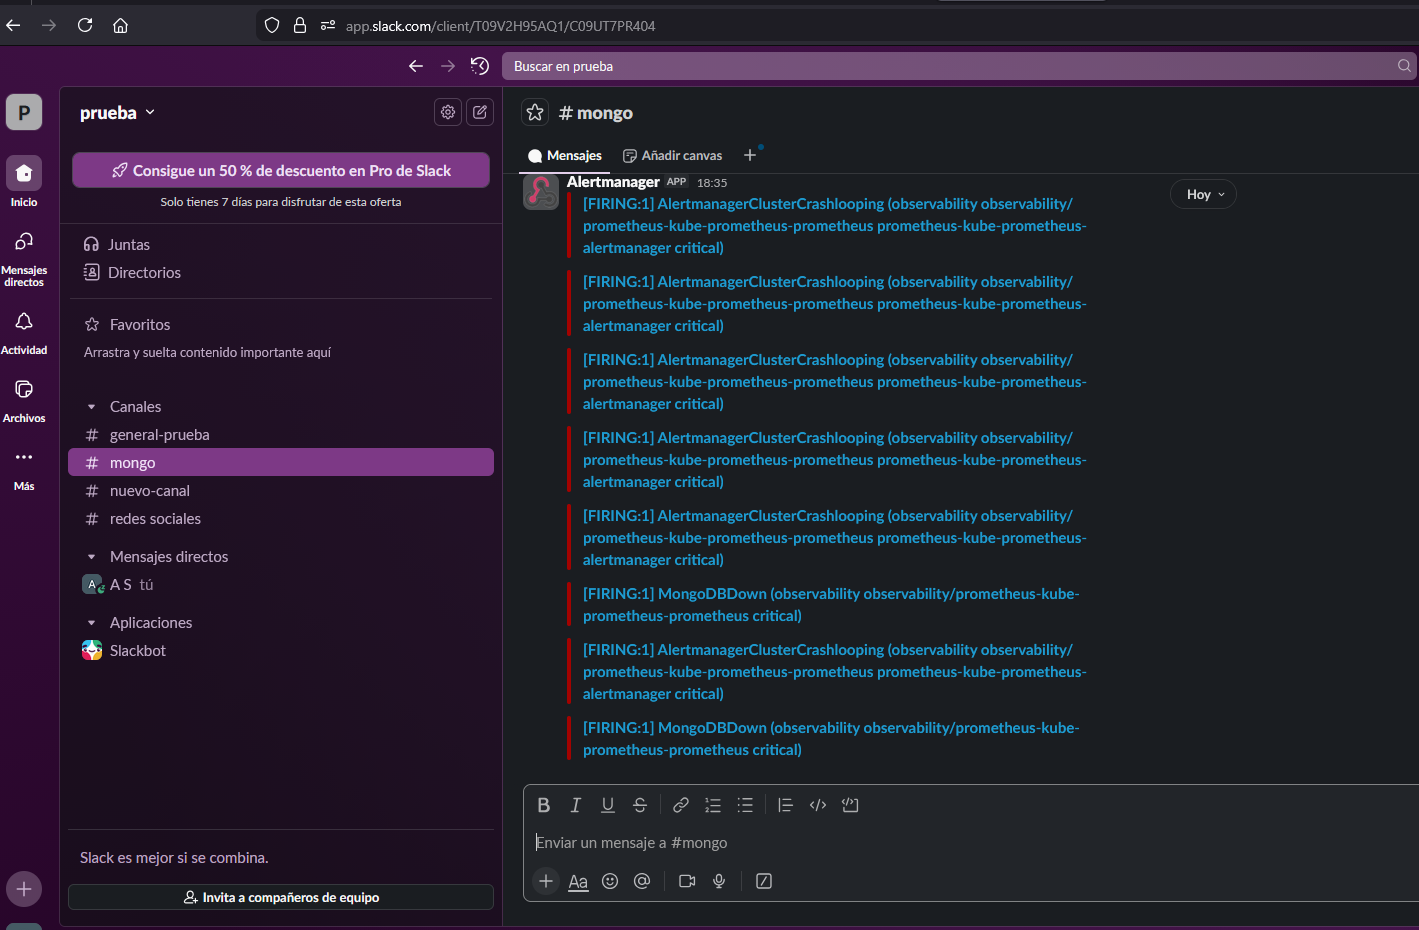
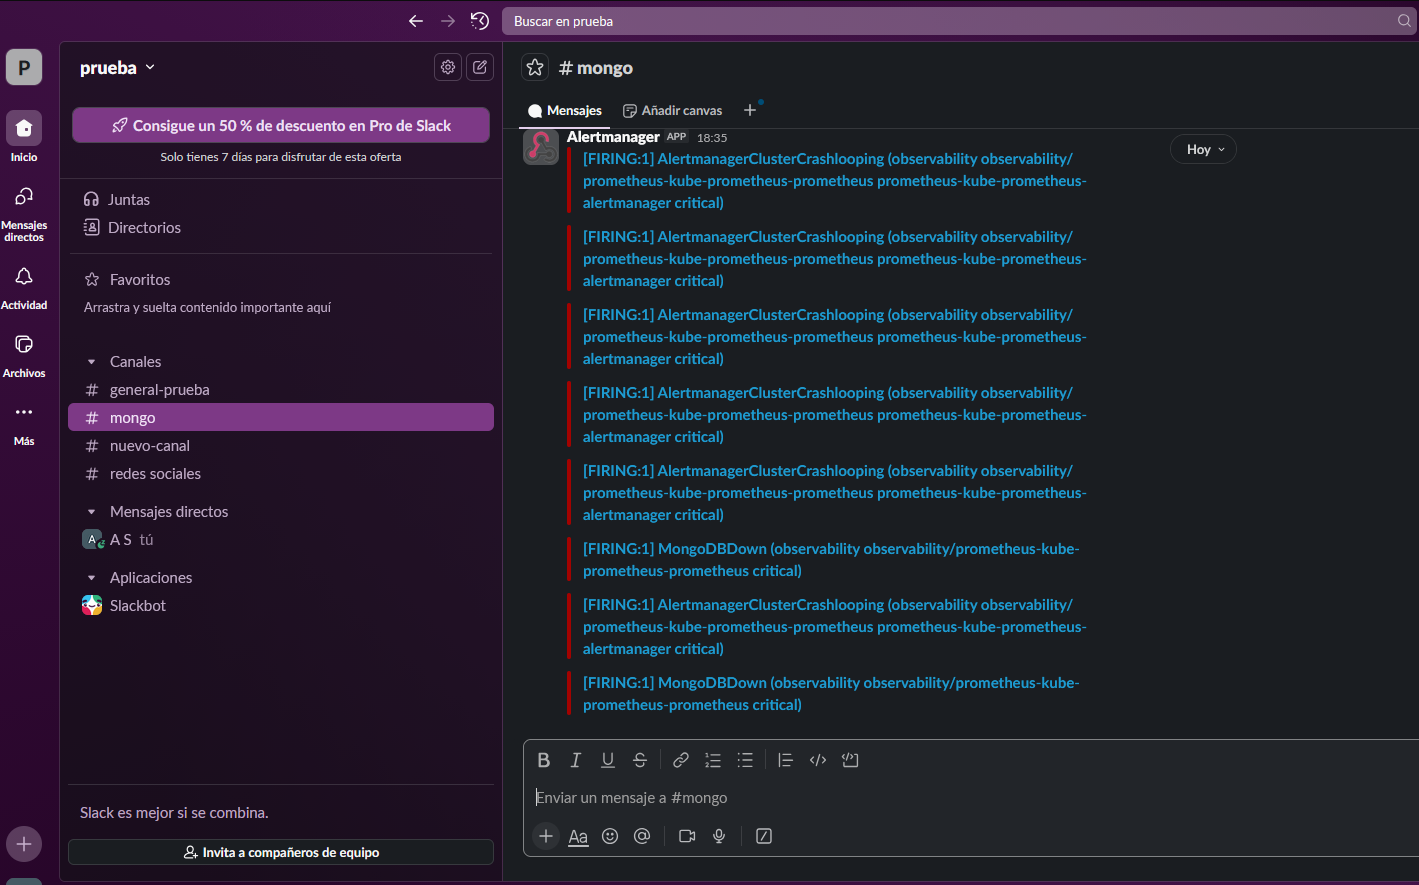
readme and image change

diff --git a/README.md b/README.md
@@ -178,11 +178,11 @@ you should see in target health
 ```
  service/monitor/observability/mongodb-metrics-app-sm/0
 ```
-![Prometheus](/images/prometheus-scrapping)
+![Prometheus](/images/prometheus-scrapping.png)
 
 If you execute mongodb_up in the query you should get data
 
-![Prometheus](/images/prometheus-graph)
+![Prometheus](/images/prometheus-graph.png)
 
 ### Port-forward to access Grafana
 Review that is running 
